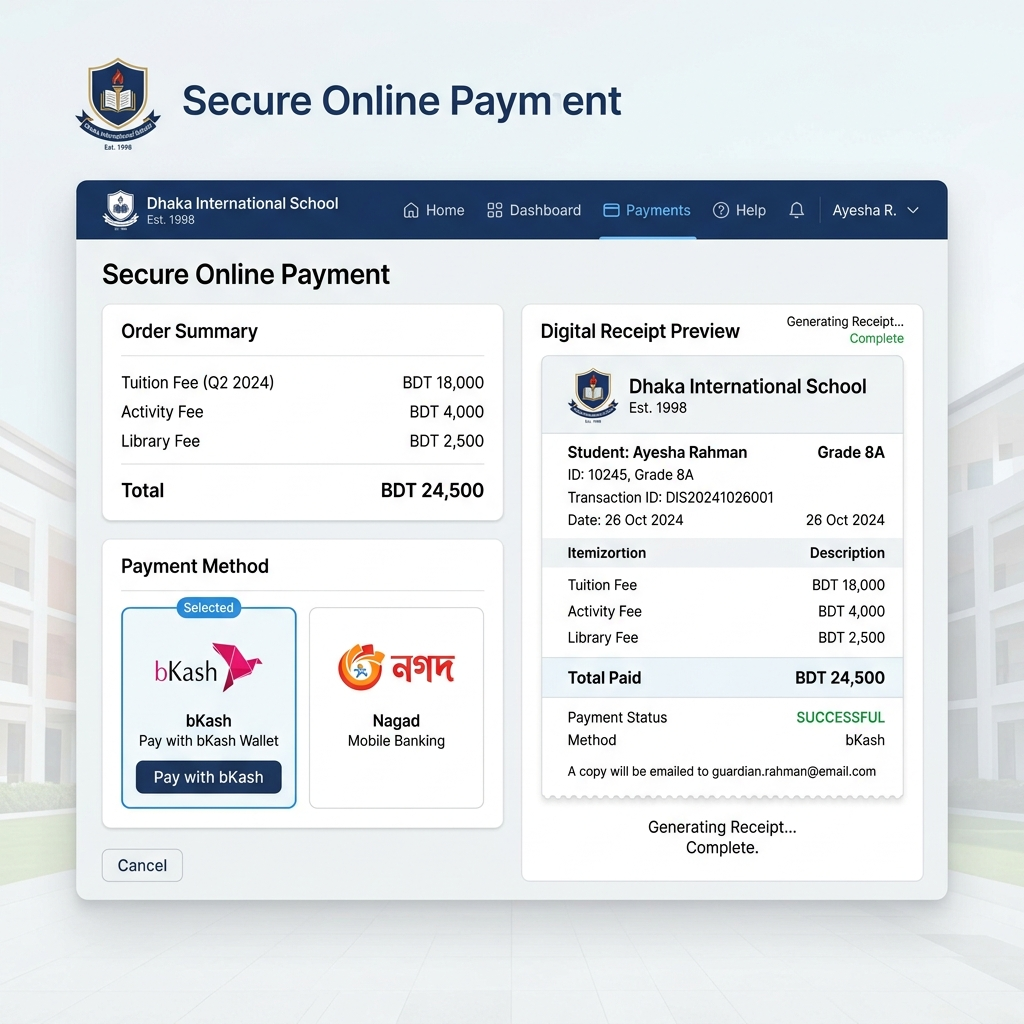
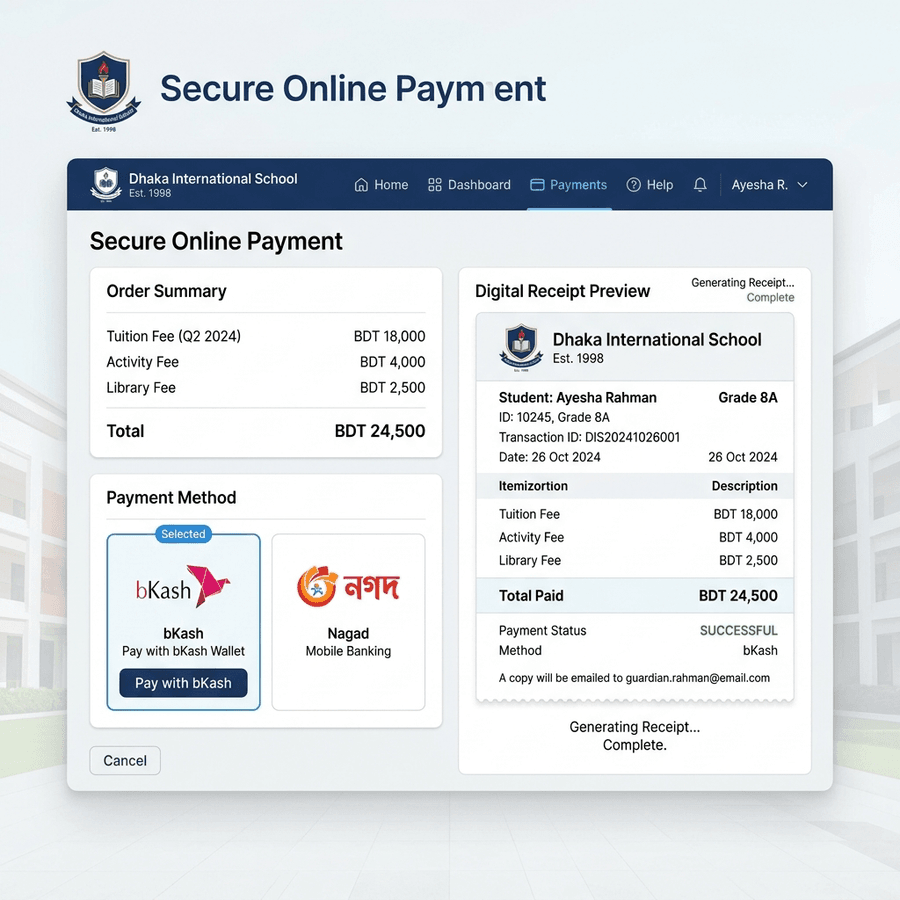
Optimize website loading performance: convert PNGs to ultra-fast WebP (92% size reduction), add fast API timeouts and Cache-Control headers

diff --git a/lib/featuresData.js b/lib/featuresData.js
@@ -21,7 +21,7 @@ export const featuresData = [
     color: "text-tertiary",
     bg: "bg-tertiary/10",
     border: "border-tertiary/20",
-    image: "/features/student-management.png",
+    image: "/features/student-management.webp",
     titleBn: "স্টুডেন্ট ম্যানেজমেন্ট সিস্টেম",
     titleEn: "Student Management System",
     subtitleBn: "শিক্ষার্থী ভর্তি, প্রোফাইল ডিরেক্টরি, আইডি কার্ড ও একাডেমিক রেকর্ডের সম্পূর্ণ ডিজিটাল সমাধান।",
@@ -71,7 +71,7 @@ export const featuresData = [
     color: "text-[#2563EB]",
     bg: "bg-[#2563EB]/10",
     border: "border-[#2563EB]/20",
-    image: "/features/payment-management.png",
+    image: "/features/payment-management.webp",
     titleBn: "পেমেন্ট ও ফি ম্যানেজমেন্ট",
     titleEn: "Payment & Fee Management",
     subtitleBn: "টিউটোরিয়াল ফি, পরীক্ষার ফি, বকেয়া হিসাব এবং অটোমেটিক মানি রসিদ পরিচালনার আধুনিক সিস্টেম।",
@@ -121,7 +121,7 @@ export const featuresData = [
     color: "text-[#10B981]",
     bg: "bg-[#10B981]/10",
     border: "border-[#10B981]/20",
-    image: "/features/online-payment.png",
+    image: "/features/online-payment.webp",
     titleBn: "অনলাইন পেমেন্ট গেটওয়ে",
     titleEn: "Online Payment Gateway Integration",
     subtitleBn: "বিকাশ, নগদ, রকেট এবং ব্যাংক কার্ডের মাধ্যমে ২৪/৭ ঘরে বসে প্রতিষ্ঠানের ফি পরিশোধের সুবিধা।",
@@ -171,7 +171,7 @@ export const featuresData = [
     color: "text-[#F59E0B]",
     bg: "bg-[#F59E0B]/10",
     border: "border-[#F59E0B]/20",
-    image: "/features/garage-transport.png",
+    image: "/features/garage-transport.webp",
     titleBn: "গ্যারেজ ও ট্রান্সপোর্ট ম্যানেজমেন্ট",
     titleEn: "Garage & Transport Management",
     subtitleBn: "স্কুল বাস, রুট শিডিউল, ড্রাইভার অ্যাসাইনমেন্ট, ফুয়েল ও ট্রান্সপোর্ট ফি ট্র্যাকিং সমাধান।",
@@ -221,7 +221,7 @@ export const featuresData = [
     color: "text-[#8B5CF6]",
     bg: "bg-[#8B5CF6]/10",
     border: "border-[#8B5CF6]/20",
-    image: "/features/hostel-management.png",
+    image: "/features/hostel-management.webp",
     titleBn: "হোস্টেল ও ডরমিটরি ম্যানেজমেন্ট",
     titleEn: "Hostel & Dormitory Management",
     subtitleBn: "হোস্টেল রুম ও সিট বরাদ্দ, মেল ট্র্যাকিং, গেট পাস এবং আবাসিক ফি ম্যানেজমেন্ট।",
@@ -271,7 +271,7 @@ export const featuresData = [
     color: "text-[#EC4899]",
     bg: "bg-[#EC4899]/10",
     border: "border-[#EC4899]/20",
-    image: "/features/canteen-management.png",
+    image: "/features/canteen-management.webp",
     titleBn: "ক্যান্টিন ও POS ম্যানেজমেন্ট",
     titleEn: "Canteen & POS Management",
     subtitleBn: "ডিজিটাল খাবার মেনু, টোকেন প্রিন্টিং, স্টুডেন্ট ওয়ালেট কার্ড ও ক্যান্টিন সেলস রিপোর্ট।",
@@ -321,7 +321,7 @@ export const featuresData = [
     color: "text-secondary",
     bg: "bg-secondary/10",
     border: "border-secondary/20",
-    image: "/features/teacher-panel.png",
+    image: "/features/teacher-panel.webp",
     titleBn: "শিক্ষক ড্যাশবোর্ড ও প্যানেল",
     titleEn: "Dedicated Teacher Portal",
     subtitleBn: "শ্রেণী রুটিন, ডিজিটালি উপস্থিতি গ্রহণ, নম্বর প্রদান এবং হোমওয়ার্ক আপলোডের ড্যাশবোর্ড।",
@@ -371,7 +371,7 @@ export const featuresData = [
     color: "text-[#8B5CF6]",
     bg: "bg-[#8B5CF6]/10",
     border: "border-[#8B5CF6]/20",
-    image: "/features/attendance-tracking.png",
+    image: "/features/attendance-tracking.webp",
     titleBn: "উপস্থিতি ট্র্যাকিং ও অটো এসএমএস",
     titleEn: "Attendance Tracking & Auto SMS",
     subtitleBn: "বায়োমেট্রিক ও ডিজিটাল হাজিরার সাথে সাথে অনুপস্থিতিতে অভিভাবকের মোবাইলে তাৎক্ষণিক মেসেজ।",
@@ -421,7 +421,7 @@ export const featuresData = [
     color: "text-tertiary",
     bg: "bg-tertiary/10",
     border: "border-tertiary/20",
-    image: "/features/result-grade-management.png",
+    image: "/features/result-grade-management.webp",
     titleBn: "ফলাফল ও গ্রেড ম্যানেজমেন্ট",
     titleEn: "Result & Grade Management",
     subtitleBn: "স্বয়ংক্রিয় গ্রেডিং, ট্যবুলেশন শিট, প্রোগ্রেস কার্ড প্রিন্ট এবং রেজাল্ট পাবলিশিং প্ল্যাটফর্ম।",
@@ -471,7 +471,7 @@ export const featuresData = [
     color: "text-[#10B981]",
     bg: "bg-[#10B981]/10",
     border: "border-[#10B981]/20",
-    image: "/features/online-exam-system.png",
+    image: "/features/online-exam-system.webp",
     titleBn: "অনলাইন পরীক্ষা ও এসেসমেন্ট",
     titleEn: "Online Exam System & Assessment",
     subtitleBn: "অনলাইনে এমসিকিউ ও মডেল টেস্ট গ্রহণ, টাইম-কাউন্ট ডাউন এবং অটোমেটিক উত্তরপত্র মূল্যায়ন।",
@@ -521,7 +521,7 @@ export const featuresData = [
     color: "text-secondary",
     bg: "bg-secondary/10",
     border: "border-secondary/20",
-    image: "/features/notice-board.png",
+    image: "/features/notice-board.webp",
     titleBn: "ডিজিটাল নোটিশ বোর্ড",
     titleEn: "Smart Digital Notice Board",
     subtitleBn: "জরুরি নোটিশ, একাডেমিক পঞ্জিকা, ছুটির ঘোষণা ও পিডিএফ সার্কুলার প্রকাশের আধুনিক মাধ্যম।",
@@ -571,7 +571,7 @@ export const featuresData = [
     color: "text-[#2563EB]",
     bg: "bg-[#2563EB]/10",
     border: "border-[#2563EB]/20",
-    image: "/features/reports-analytics.png",
+    image: "/features/reports-analytics.webp",
     titleBn: "রিপোর্ট ও স্মার্ট অ্যানালিটিক্স",
     titleEn: "Comprehensive Reports & Analytics",
     subtitleBn: "প্রতিষ্ঠানের আর্থিক গ্রাফ, শিক্ষার্থী উপস্থিতির ট্রেন্ড ও পারফরম্যান্সের এক্সিকিউটিভ সমাহার।",

diff --git a/app/api/plans/route.js b/app/api/plans/route.js
@@ -397,18 +397,27 @@ const DEFAULT_PLANS = [
 ];
 
 export async function GET() {
+  const timeoutPromise = new Promise((resolve) =>
+    setTimeout(() => resolve(null), 1500)
+  );
+
   try {
-    const rows = await query("SELECT * FROM plans ORDER BY sort_order ASC, price ASC");
+    const fetchPromise = query("SELECT * FROM plans ORDER BY sort_order ASC, price ASC");
+    const rows = await Promise.race([fetchPromise, timeoutPromise]);
     if (rows && rows.length > 0) {
       const dbPlans = rows.map(mapPlanFromDb);
       const dbIds = new Set(dbPlans.map((p) => p.id || p._id));
       const missingDefaults = DEFAULT_PLANS.filter((p) => !dbIds.has(p.id));
-      return NextResponse.json([...dbPlans, ...missingDefaults]);
+      return NextResponse.json([...dbPlans, ...missingDefaults], {
+        headers: { "Cache-Control": "public, max-age=300, s-maxage=600" },
+      });
     }
   } catch (error) {
     console.error("Error fetching plans from DB, falling back to defaults:", error.message);
   }
-  return NextResponse.json(DEFAULT_PLANS);
+  return NextResponse.json(DEFAULT_PLANS, {
+    headers: { "Cache-Control": "public, max-age=300, s-maxage=600" },
+  });
 }
 
 export async function POST(request) {

diff --git a/app/api/work-proofs/route.js b/app/api/work-proofs/route.js
@@ -3,18 +3,27 @@ import { supabaseAdmin } from "@/lib/supabase";
 import { requireAdmin } from "@/lib/auth";
 
 export async function GET() {
+  const timeoutPromise = new Promise((resolve) =>
+    setTimeout(() => resolve({ data: [] }), 1500)
+  );
+
   try {
-    const { data, error } = await supabaseAdmin
+    const fetchPromise = supabaseAdmin
       .from("work_proofs")
       .select("*")
       .eq("active", true)
       .order("order_index", { ascending: true });
+    const res = await Promise.race([fetchPromise, timeoutPromise]);
+    const data = res?.data || [];
 
-    if (error) throw error;
-    return NextResponse.json(data);
+    return NextResponse.json(data, {
+      headers: { "Cache-Control": "public, max-age=600, s-maxage=3600" },
+    });
   } catch (error) {
     console.error("Error fetching work proofs:", error);
-    return NextResponse.json({ error: "Internal Server Error" }, { status: 500 });
+    return NextResponse.json([], {
+      headers: { "Cache-Control": "public, max-age=600, s-maxage=3600" },
+    });
   }
 }
 

diff --git a/app/api/feature-videos/route.js b/app/api/feature-videos/route.js
@@ -3,19 +3,23 @@ import { supabase } from "@/lib/supabase";
 import { requireAdmin } from "@/lib/auth";
 
 export async function GET() {
-  try {
-    const { data, error } = await supabase
-      .from("feature_videos")
-      .select("*");
+  const timeoutPromise = new Promise((resolve) =>
+    setTimeout(() => resolve({ data: [] }), 1500)
+  );
 
-    if (error) throw error;
-    return NextResponse.json(data || []);
+  try {
+    const fetchPromise = supabase.from("feature_videos").select("*");
+    const res = await Promise.race([fetchPromise, timeoutPromise]);
+    const data = res?.data || [];
+
+    return NextResponse.json(data, {
+      headers: { "Cache-Control": "public, max-age=600, s-maxage=3600" },
+    });
   } catch (err) {
     console.error("Error fetching feature videos:", err);
-    return NextResponse.json(
-      { error: "Failed to fetch feature videos" },
-      { status: 500 }
-    );
+    return NextResponse.json([], {
+      headers: { "Cache-Control": "public, max-age=600, s-maxage=3600" },
+    });
   }
 }
 

diff --git a/lib/db.js b/lib/db.js
@@ -15,6 +15,7 @@ function createPool(host, user = primaryUser, password = primaryPassword, databa
     database,
     waitForConnections: true,
     connectionLimit: 10,
+    connectTimeout: 2000,
     queueLimit: 0,
   });
 }
